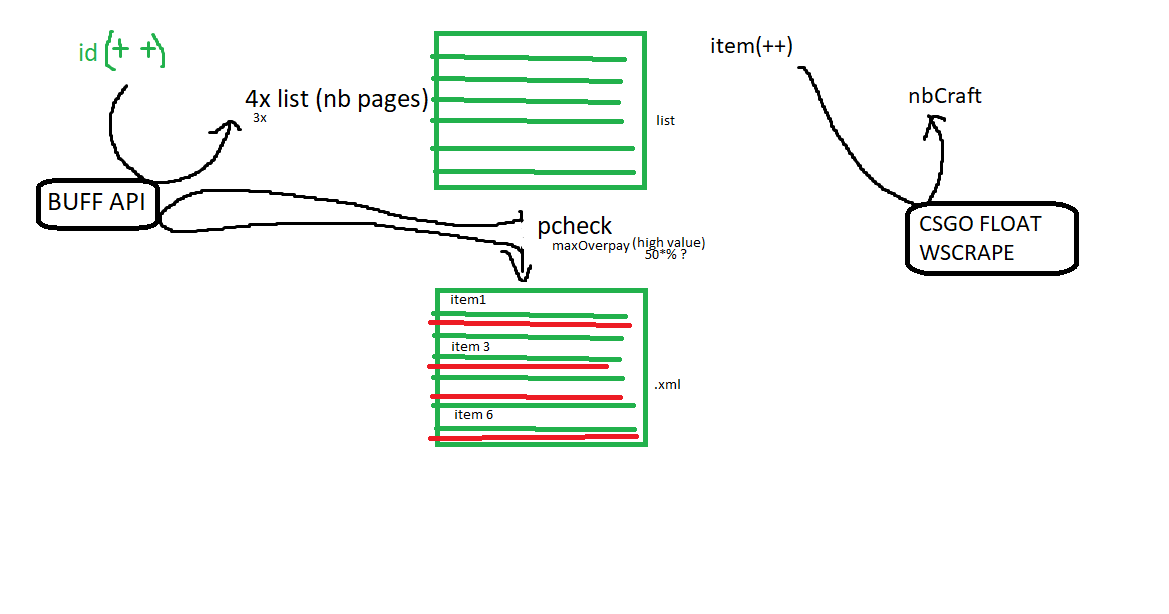
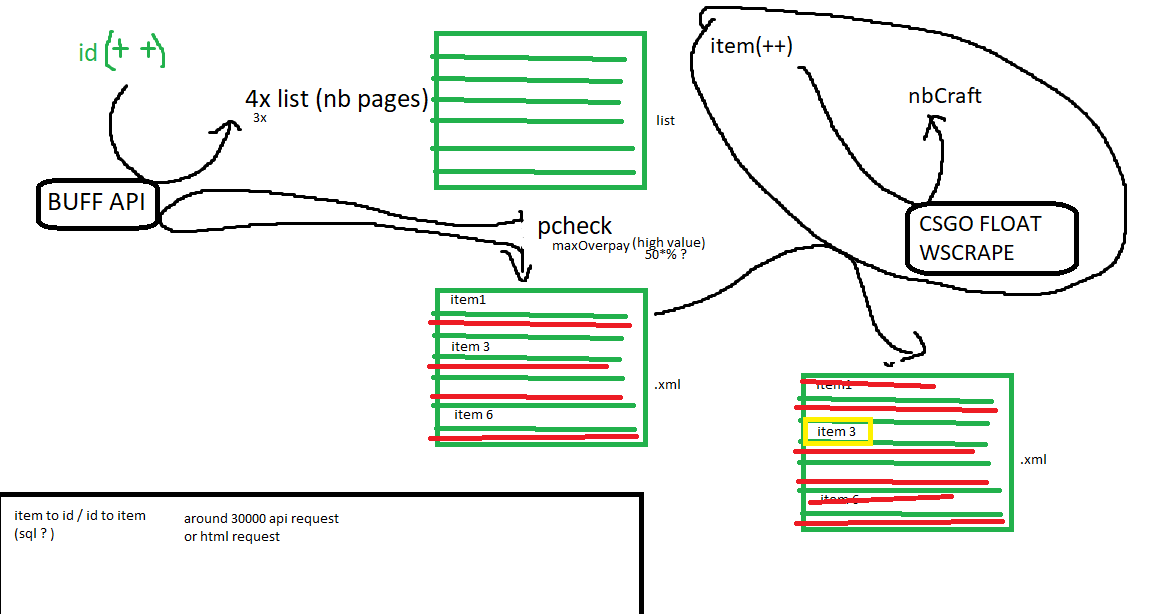
can't solve api issue, will try to convert this project into an web extension later

diff --git a/get4xCrafts.py b/get4xCrafts.py
@@ -15,13 +15,33 @@ class Get4xCrafts:
         self.headers = parameters.headers
 
         for i in range(nb):
-            self.itemList.append( requests.get(url=self.url, headers = self.headers).json()['data'] )
+            print(Get4xCrafts.getUrl(id,i))
+            r = requests.get(Get4xCrafts.getUrl(id,i), headers = self.headers).json()
 
+            for itemIndex in range(10):
+                if r['code'] == "OK":
+                    self.itemList.append( r['data']['items'][itemIndex] )
+                else: 
+                    print("request error for item id"+str(id)+" at page "+str(i+1)+" : error code "+r['code'])
 
-    def getUrl(id,nb) -> str:
-        return "https://buff.163.com/api/market/goods/sell_order?game=csgo&goods_id="+str(id)+"&page_num="+str(nb)+"&sort_by=default&mode=&allow_tradable_cooldown=1&extra_tag_ids=squad_combos&wearless_sticker=1&_=1668903032399"
+    def getStickerPrice(name : str):
+        ###TODO 
+        """get the sticker corresponding id via database"""
+        pass
 
-    def 
+    def getStickerNames(self) -> list[str]:
+        stickerNames = []
+
+        for item in self.itemList:
+            itemStickers = []
+            for sticker in item['asset_info']['info']['stickers']:
+                itemStickers.append(sticker['name'])
+            stickerNames.append(itemStickers)
+        return stickerNames
+
+    def getUrl(id : int,nb : int) -> str:
+        return "https://buff.163.com/api/market/goods/sell_order?game=csgo&goods_id="+str(id)+"&page_num="+str(nb+1)+"&sort_by=default&mode=&allow_tradable_cooldown=1&extra_tag_ids=squad_combos&wearless_sticker=1&_=1668942549595"
+
 
 
 

diff --git a/main.py b/main.py
@@ -1,11 +1,18 @@
+from pickle import GET
 import GetPriceFromId
-
+import Get4xCrafts
+import time
 getPriceOfM4 = GetPriceFromId.GetPriceFromId(35282)
-getPriceTest = GetPriceFromId.GetPriceFromId(35383)
+#getPriceTest = GetPriceFromId.GetPriceFromId(35383)
 
-print(getPriceOfM4.getName(), getPriceTest.getName())
+#print(getPriceOfM4.getName(), getPriceTest.getName())
 
-print(getPriceOfM4.getLowestPrice(), getPriceTest.getLowestPrice())
+#print(getPriceOfM4.getLowestPrice(), getPriceTest.getLowestPrice())
 
 print(getPriceOfM4.getStickerNames())
 
+
+
+getM4crafts = Get4xCrafts.Get4xCrafts(35282,1)
+
+print(getM4crafts.getStickerNames())
